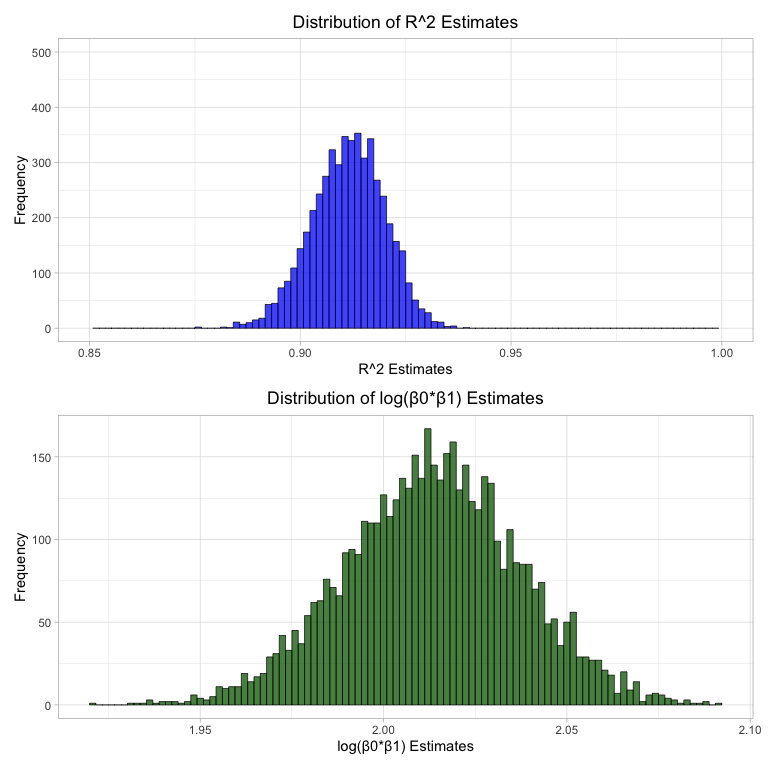
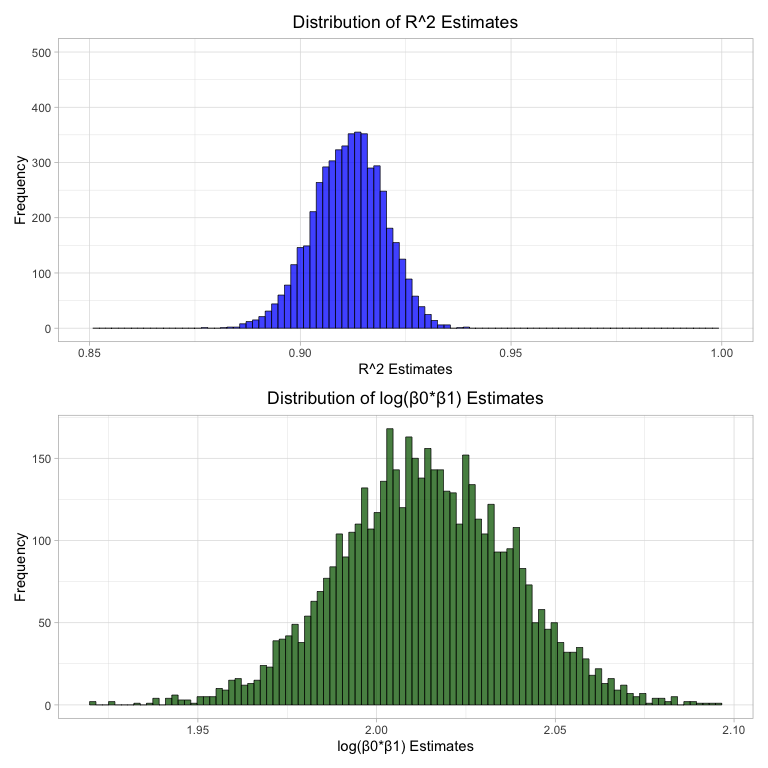
save

diff --git a/p8105_hw6_ez2384.md b/p8105_hw6_ez2384.md
@@ -103,7 +103,7 @@ p8105_hw6_ez2384
 
 | 95% CI bounds for R2 |  Value |
 |:---------------------|-------:|
-| lower bound          | 0.8937 |
+| lower bound          | 0.8942 |
 | upper bound          | 0.9270 |
 
 ``` r
@@ -118,8 +118,8 @@ p8105_hw6_ez2384
 
 | 95% CI bounds for log(ß0\*ß1) |  Value |
 |:------------------------------|-------:|
-| lower bound                   | 1.9660 |
-| upper bound                   | 2.0595 |
+| lower bound                   | 1.9667 |
+| upper bound                   | 2.0603 |
 
 ### Problem 2
 
@@ -392,7 +392,7 @@ p8105_hw6_ez2384
     ## Multiple R-squared:  0.7115, Adjusted R-squared:  0.7107 
     ## F-statistic: 970.6 on 11 and 4330 DF,  p-value: < 2.2e-16
 
-##### Building and Commentting on Reduced Model
+##### Remark on Building and Commentting on Reduced Model
 
 - Initial Full Model includes all predictors.  
 - Backward selection was applied using `stepAIC()` to remove predictors
@@ -469,32 +469,47 @@ p8105_hw6_ez2384
 
 ``` r
   set.seed(1)
-  cv_splits = crossv_mc(birthweight_data, n = 100)
-  
-  rmse = function(model, data) { sqrt(mean((data$bwt - predict(model, newdata = data))^2)) }
+  cv_splits = crossv_mc(birthweight_data, n = 100) %>%
+              mutate(
+                train = map(train, as.data.frame),
+                test = map(test, as.data.frame)
+              )
+
+  rmse = function(model, data) {
+                                  if (is.null(data$bwt)) {
+                                                            stop("bwt column missing in test data")
+                                                          }
+                                  preds = predict(model, newdata = data)
+                                  sqrt(mean((data$bwt - preds)^2))
+                                }
   
   cv_results = cv_splits %>%
                mutate(
-                       backward = map(train, ~lm(bwt ~ blength+bhead+gaweeks+wtgain+fincome+mheight+parity+babysex+mrace, data = .x)),
-                         model1 = map(train, ~lm(bwt ~ blength + gaweeks, data = .x)),
-                         model2 = map(train, ~lm(bwt ~ bhead * blength * babysex, data = .x)),
-                  backward_rmse = map2_dbl(backward, test, rmse),
-                    model1_rmse = map2_dbl(model1, test, rmse),
-                    model2_rmse = map2_dbl(model2, test, rmse)
-                )
-  head(cv_results)
+                      backward = map(train, ~lm(bwt ~ blength+bhead+gaweeks+wtgain+fincome+mheight+parity+babysex+mrace, data = .x)),
+                      model1 = map(train, ~lm(bwt ~ blength + gaweeks, data = .x)),
+                      model2 = map(train, ~lm(bwt ~ bhead * blength * babysex, data = .x)),
+                      backward_rmse = map2_dbl(backward, test, rmse),
+                      model1_rmse = map2_dbl(model1, test, rmse),
+                      model2_rmse = map2_dbl(model2, test, rmse)
+                    )
+    
+  cv_results %>% select(backward_rmse, model1_rmse, model2_rmse)
 ```
 
-    ## # A tibble: 6 × 9
-    ##   train                   test                  .id   backward model1 model2
-    ##   <list>                  <list>                <chr> <list>   <list> <list>
-    ## 1 <resample [3,473 x 20]> <resample [869 x 20]> 001   <lm>     <lm>   <lm>  
-    ## 2 <resample [3,473 x 20]> <resample [869 x 20]> 002   <lm>     <lm>   <lm>  
-    ## 3 <resample [3,473 x 20]> <resample [869 x 20]> 003   <lm>     <lm>   <lm>  
-    ## 4 <resample [3,473 x 20]> <resample [869 x 20]> 004   <lm>     <lm>   <lm>  
-    ## 5 <resample [3,473 x 20]> <resample [869 x 20]> 005   <lm>     <lm>   <lm>  
-    ## 6 <resample [3,473 x 20]> <resample [869 x 20]> 006   <lm>     <lm>   <lm>  
-    ## # ℹ 3 more variables: backward_rmse <dbl>, model1_rmse <dbl>, model2_rmse <dbl>
+    ## # A tibble: 100 × 3
+    ##    backward_rmse model1_rmse model2_rmse
+    ##            <dbl>       <dbl>       <dbl>
+    ##  1          283.        360.        302.
+    ##  2          268.        322.        280.
+    ##  3          266.        307.        279.
+    ##  4          287.        337.        298.
+    ##  5          290.        367.        303.
+    ##  6          273.        314.        282.
+    ##  7          277.        357.        290.
+    ##  8          289.        346.        301.
+    ##  9          273.        327.        287.
+    ## 10          275.        338.        292.
+    ## # ℹ 90 more rows
 
 ``` r
   birthweight_data = birthweight_data %>%
@@ -538,4 +553,45 @@ p8105_hw6_ez2384
     theme( plot.title = element_text(hjust=.5), )
 ```
 
-![](p8105_hw6_ez2384_files/figure-gfm/p3%20plot-1.png)<!-- -->
+![](p8105_hw6_ez2384_files/figure-gfm/p3%20plots-1.png)<!-- -->
+
+``` r
+  cv_summary = cv_results %>%
+               summarize(
+                 backward_rmse = mean(backward_rmse),
+                   model1_rmse = mean(model1_rmse),
+                   model2_rmse = mean(model2_rmse)
+               )
+
+  cv_results_long <- cv_results %>%
+                     pivot_longer(cols = c(backward_rmse, model1_rmse, model2_rmse), names_to = "model", values_to = "rmse")
+  
+  ggplot(data=cv_results_long, mapping=aes(x = model, y = rmse, fill=model)) +
+    geom_violin() +
+    stat_summary(fun = median, geom = "point", shape = 21, size = 1.5, fill = "white", color = "black") +
+      stat_summary(fun = mean, geom = "point", shape = 23, size = 1.5, fill = "red", color = "black") +
+    labs(
+      title = "Cross-Validated RMSE for Each Model",
+      x = "Model",
+      y = "RMSE"
+    ) +
+    theme_light() +
+    theme( plot.title = element_text(hjust=.5), )
+```
+
+![](p8105_hw6_ez2384_files/figure-gfm/p3%20plots-2.png)<!-- -->
+
+##### Remark on RMSE across models
+
+- The backward model (red) shows the smallest spread of RMSE values,
+  indicating consistent performance across cross-validation splits. The
+  first model (green) has the largest spread of RMSE values, suggesting
+  greater variability in performance. The second model (blue) also shows
+  a compact distribution similar to the backward model, though slightly
+  more dispersed.  
+- The backward model exhibits the lowest RMSE median and mean,
+  demonstrating its superior predictive accuracy compared to the other
+  models. The first model has the highest median and mean RMSE,
+  indicating weaker predictive performance.  
+- Overall, the backward selection model appears to be the best model
+  overall, with both lower RMSE values and less variability.
